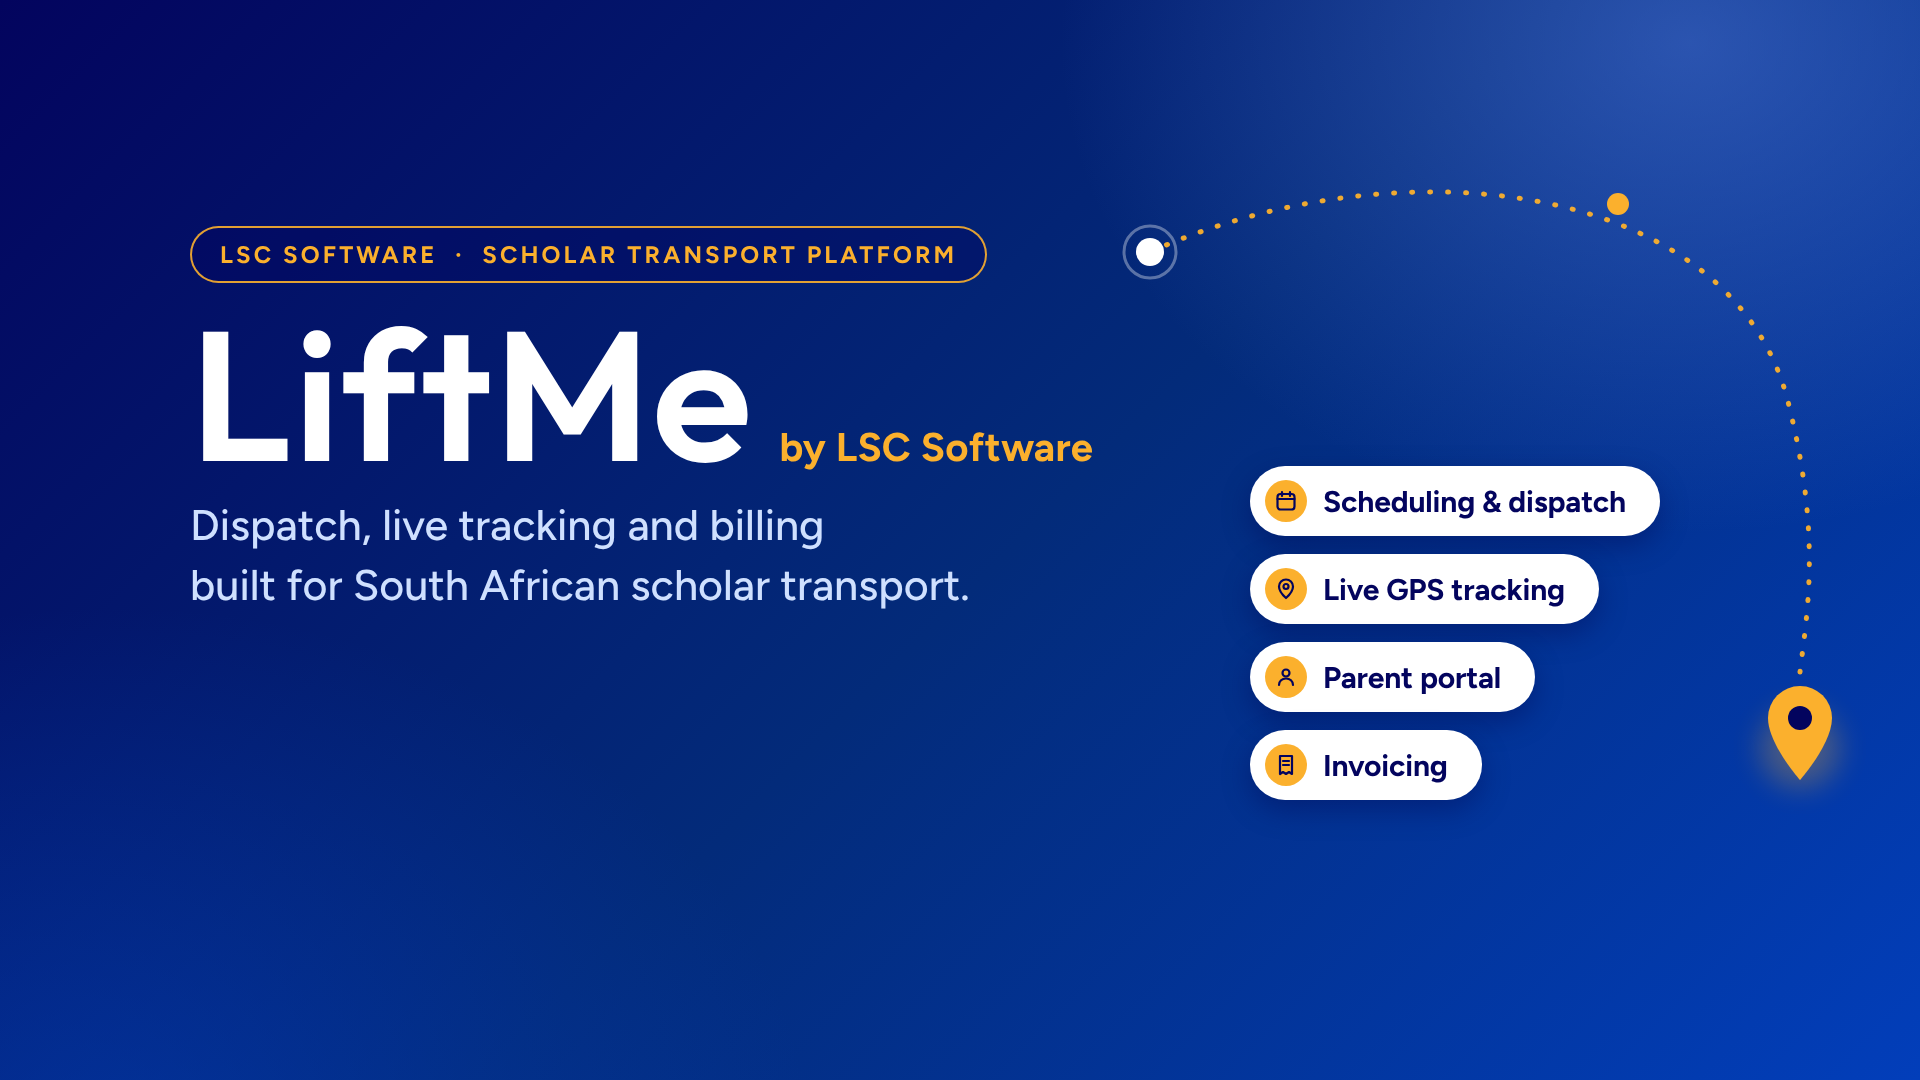
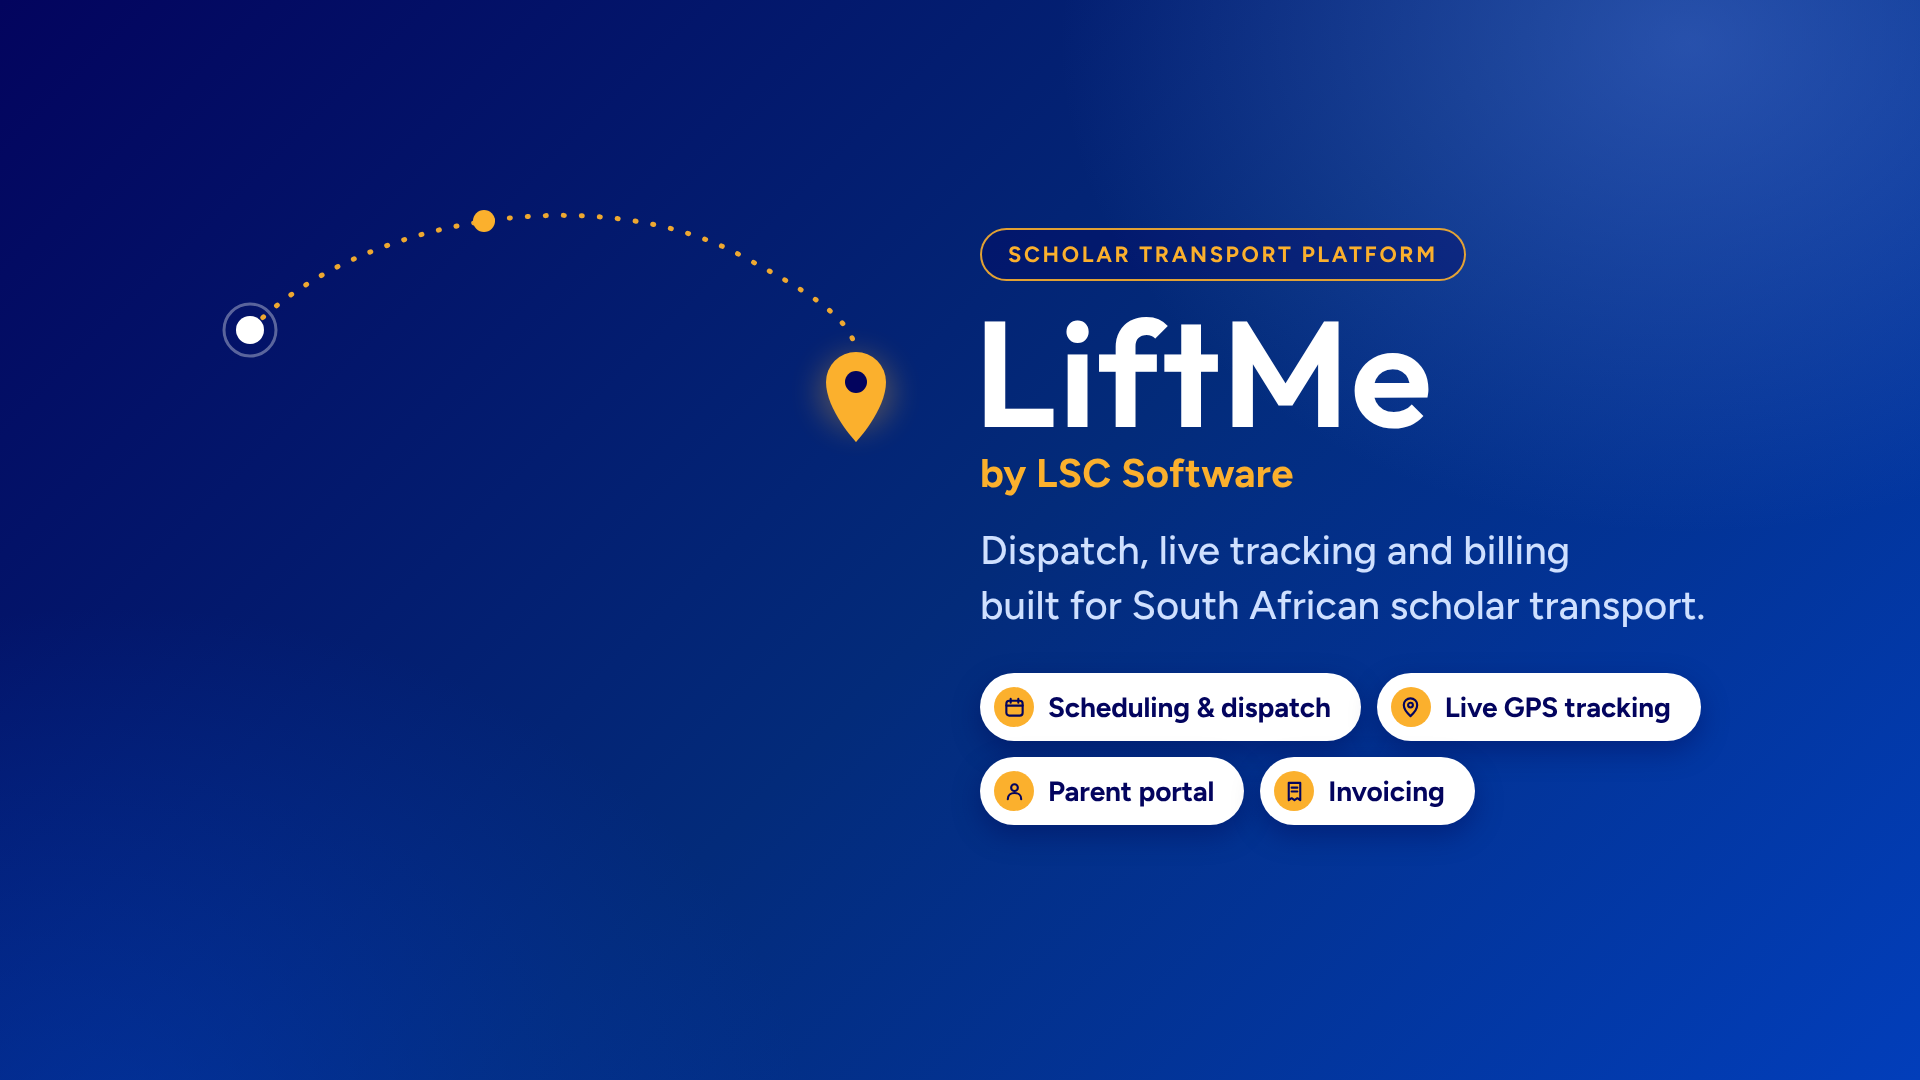
Move Facebook cover text clear of the profile photo circle
Facebook's upload preview draws the profile photo much larger and higher
than expected, covering the left half of the cover. All copy now sits in
the right half (x 980-1780), the feature pills form a 2x2 block under the
tagline, and the dotted route is decoration only on the left.

Claude-Session: https://claude.ai/code/session_01Nw2eW7ZPc3XqAxzWFQvU7W

diff --git a/media/social/liftme-facebook-cover.src.html b/media/social/liftme-facebook-cover.src.html
@@ -11,13 +11,14 @@
   "safe zone" described below.
 
   SAFE ZONE (px on the 1920x1080 canvas)
-    - Top 0-190:      phone status bar + desktop crop  -> nothing important
-    - Bottom 900-1080: desktop crop                    -> nothing important
-    - Bottom-left:    the profile photo circle covers a circle of radius ~410
-                      centred at (450, 1075) on mobile -> text stays above y=640
-                      (left side) and right of x=880 (below that)
-    - Top-right:      back / search / edit buttons on mobile -> only decoration
-    - Bottom-right:   camera button for page admins -> only decoration
+    - Left half (x < 950): on mobile the profile photo is drawn as a huge circle
+      (centre ~(470, 850), radius ~430 in the upload preview) -> decoration only
+    - All text lives in the right half: x 980 - 1760
+    - Top 0-190:       phone status bar + desktop crop  -> nothing important
+    - Bottom 900-1080: desktop crop                     -> nothing important
+    - Top-right (x > 1500, y 280-410): search / edit buttons on mobile ->
+      keep text narrower than x 1480 in that band
+    - Bottom-right (x > 1700, y > 850): camera button for page admins -> empty
 
   Render:  1920x1080 screenshot -> media/social/liftme-facebook-cover.png
 -->
@@ -43,39 +44,42 @@
     height: 1080px;
     overflow: hidden;
     background:
-      radial-gradient(900px 700px at 88% 4%, rgba(76, 116, 214, .55), rgba(76, 116, 214, 0) 70%),
+      radial-gradient(900px 700px at 88% 4%, rgba(76, 116, 214, .5), rgba(76, 116, 214, 0) 70%),
       radial-gradient(1000px 800px at 6% 108%, rgba(2, 62, 186, .55), rgba(2, 62, 186, 0) 70%),
       linear-gradient(135deg, #03045E 0%, #032B7A 52%, #023EBA 100%);
   }
 
-  /* ---------- text block (left) ---------- */
-  .copy { position: absolute; left: 190px; top: 226px; }
+  /* ---------- text block (right half) ---------- */
+  .copy { position: absolute; left: 980px; top: 228px; width: 800px; }
 
   .eyebrow {
     display: inline-block;
-    padding: 12px 28px;
+    padding: 11px 26px;
     border: 2px solid rgba(251, 176, 45, .9);
     border-radius: 999px;
     color: var(--amber);
     font-weight: 700;
-    font-size: 24px;
-    letter-spacing: .13em;
+    font-size: 22px;
+    letter-spacing: .12em;
     text-transform: uppercase;
     background: rgba(3, 4, 94, .35);
   }
 
-  .brand-row { display: flex; align-items: baseline; margin-top: 26px; }
   .product {
+    display: block;
+    margin-top: 22px;
+    margin-left: -6px;               /* optical alignment of the L with the text edge */
     font-family: 'Outfit', 'Figtree', sans-serif;
     font-weight: 600;
-    font-size: 184px;
+    font-size: 150px;
     line-height: .92;
     font-kerning: none;
     letter-spacing: 0.01em;
     color: #fff;
   }
   .maker {
-    margin-left: 26px;
+    display: block;
+    margin-top: 8px;
     font-weight: 700;
     font-size: 40px;
     letter-spacing: .005em;
@@ -83,41 +87,39 @@
   }
 
   .tagline {
-    margin-top: 18px;
+    margin-top: 26px;
     font-weight: 500;
-    font-size: 43px;
+    font-size: 40px;
     line-height: 1.38;
     color: var(--ice);
   }
 
-  /* ---------- feature pills (right) ---------- */
+  /* ---------- feature pills ---------- */
   .features {
-    position: absolute;
-    left: 1250px; top: 466px;
-    display: flex; flex-direction: column; gap: 18px;
-    align-items: flex-start;
+    margin-top: 40px;
+    display: flex; flex-wrap: wrap; gap: 16px;
   }
   .pill {
-    display: flex; align-items: center; gap: 16px;
-    height: 70px;
-    padding: 0 34px 0 15px;
+    display: flex; align-items: center; gap: 14px;
+    height: 68px;
+    padding: 0 30px 0 14px;
     border-radius: 999px;
     background: #fff;
     color: var(--navy-700);
     font-weight: 700;
-    font-size: 30px;
+    font-size: 28px;
     letter-spacing: -.005em;
     box-shadow: 0 10px 28px rgba(2, 4, 71, .35);
   }
   .pill .ico {
     flex: none;
-    width: 42px; height: 42px; border-radius: 50%;
+    width: 40px; height: 40px; border-radius: 50%;
     background: var(--amber);
     display: grid; place-items: center;
   }
-  .pill svg { width: 24px; height: 24px; fill: none; stroke: var(--navy-700); stroke-width: 2.2; stroke-linecap: round; stroke-linejoin: round; }
+  .pill svg { width: 23px; height: 23px; fill: none; stroke: var(--navy-700); stroke-width: 2.2; stroke-linecap: round; stroke-linejoin: round; }
 
-  /* ---------- route decoration ---------- */
+  /* ---------- route decoration (left, top) ---------- */
   .route { position: absolute; inset: 0; width: 1920px; height: 1080px; }
 </style>
 </head>
@@ -127,32 +129,30 @@
     <defs>
       <filter id="glow" x="-50%" y="-50%" width="200%" height="200%"><feGaussianBlur stdDeviation="14"/></filter>
     </defs>
-    <!-- dotted route: starts top-centre, loops out to the right, drops to the pin -->
-    <path d="M1150 252 C1400 140 1740 180 1790 410 C1822 540 1806 620 1800 672"
+    <!-- dotted route: leaves the "school" dot, arcs over the top and drops onto the pin -->
+    <path d="M250 330 C360 215 600 180 740 255 C805 290 850 316 856 350"
           fill="none" stroke="#FBB02D" stroke-width="5" stroke-linecap="round" stroke-dasharray="1 17" opacity=".95"/>
-    <circle cx="1150" cy="252" r="14" fill="#fff"/>
-    <circle cx="1150" cy="252" r="26" fill="none" stroke="#fff" stroke-opacity=".35" stroke-width="3"/>
-    <circle cx="1618" cy="204" r="11" fill="#FBB02D"/>
+    <circle cx="250" cy="330" r="14" fill="#fff"/>
+    <circle cx="250" cy="330" r="26" fill="none" stroke="#fff" stroke-opacity=".35" stroke-width="3"/>
+    <circle cx="484" cy="221" r="11" fill="#FBB02D"/>
     <!-- destination pin -->
-    <circle cx="1800" cy="748" r="40" fill="#FBB02D" opacity=".28" filter="url(#glow)"/>
-    <path d="M1800 780 C1800 780 1768 744 1768 718 a32 32 0 0 1 64 0 c0 26 -32 62 -32 62z" fill="#FBB02D"/>
-    <circle cx="1800" cy="718" r="12" fill="#03045E"/>
+    <circle cx="856" cy="392" r="38" fill="#FBB02D" opacity=".28" filter="url(#glow)"/>
+    <path d="M856 442 C856 442 826 410 826 382 a30 30 0 0 1 60 0 c0 28 -30 60 -30 60z" fill="#FBB02D"/>
+    <circle cx="856" cy="382" r="11" fill="#03045E"/>
   </svg>
 
   <div class="copy">
-    <div class="eyebrow">LSC Software &nbsp;·&nbsp; Scholar Transport Platform</div>
-    <div class="brand-row">
-      <span class="product">LiftMe</span>
-      <span class="maker">by LSC Software</span>
-    </div>
+    <div class="eyebrow">Scholar Transport Platform</div>
+    <span class="product">LiftMe</span>
+    <span class="maker">by LSC Software</span>
     <div class="tagline">Dispatch, live tracking and billing<br>built for South African scholar transport.</div>
-  </div>
 
-  <div class="features">
-    <div class="pill"><span class="ico"><svg viewBox="0 0 24 24"><rect x="3.5" y="5" width="17" height="15.5" rx="3"/><path d="M3.5 10h17M8 3v4M16 3v4"/></svg></span>Scheduling &amp; dispatch</div>
-    <div class="pill"><span class="ico"><svg viewBox="0 0 24 24"><path d="M12 21s7-6.2 7-11.5A7 7 0 0 0 5 9.5C5 14.8 12 21 12 21z"/><circle cx="12" cy="9.5" r="2.5"/></svg></span>Live GPS tracking</div>
-    <div class="pill"><span class="ico"><svg viewBox="0 0 24 24"><circle cx="12" cy="8" r="3.5"/><path d="M5 20c0-3.9 3.1-6.5 7-6.5s7 2.6 7 6.5"/></svg></span>Parent portal</div>
-    <div class="pill"><span class="ico"><svg viewBox="0 0 24 24"><path d="M6 3h12v18l-3-2-3 2-3-2-3 2z"/><path d="M9 8h6M9 12h6"/></svg></span>Invoicing</div>
+    <div class="features">
+      <div class="pill"><span class="ico"><svg viewBox="0 0 24 24"><rect x="3.5" y="5" width="17" height="15.5" rx="3"/><path d="M3.5 10h17M8 3v4M16 3v4"/></svg></span>Scheduling &amp; dispatch</div>
+      <div class="pill"><span class="ico"><svg viewBox="0 0 24 24"><path d="M12 21s7-6.2 7-11.5A7 7 0 0 0 5 9.5C5 14.8 12 21 12 21z"/><circle cx="12" cy="9.5" r="2.5"/></svg></span>Live GPS tracking</div>
+      <div class="pill"><span class="ico"><svg viewBox="0 0 24 24"><circle cx="12" cy="8" r="3.5"/><path d="M5 20c0-3.9 3.1-6.5 7-6.5s7 2.6 7 6.5"/></svg></span>Parent portal</div>
+      <div class="pill"><span class="ico"><svg viewBox="0 0 24 24"><path d="M6 3h12v18l-3-2-3 2-3-2-3 2z"/><path d="M9 8h6M9 12h6"/></svg></span>Invoicing</div>
+    </div>
   </div>
 </div>
 </body>
